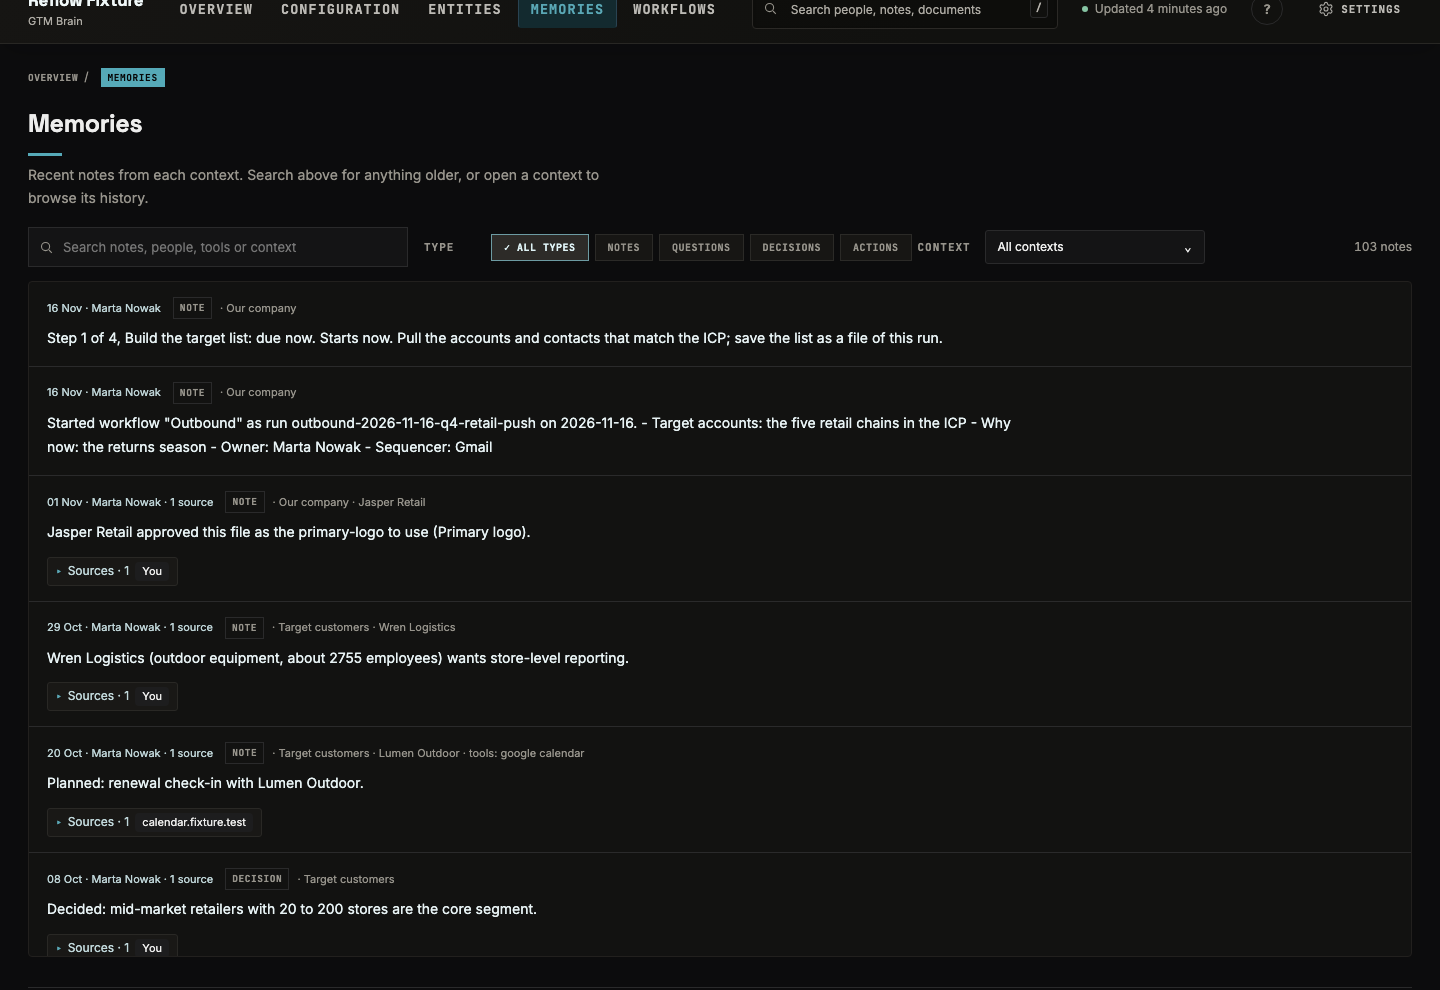
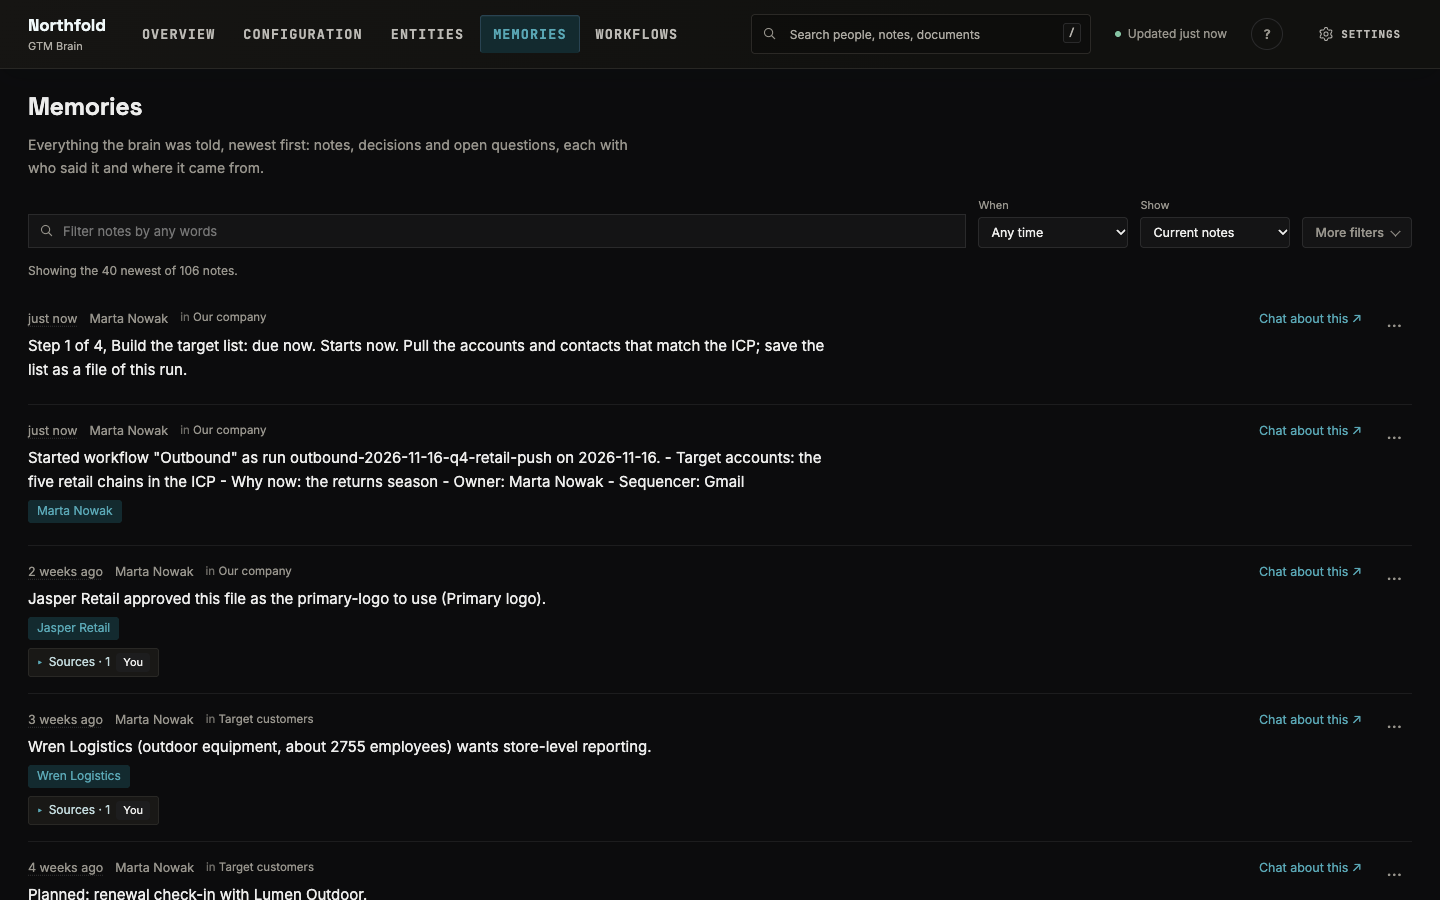
GTM Brain 0.37.1: a simpler Memories toolbar; every screenshot retaken (#62)

diff --git a/plugins/gtm-brain/scripts/gtm-brain-render/home.template.html b/plugins/gtm-brain/scripts/gtm-brain-render/home.template.html
@@ -344,7 +344,7 @@ time.pl-when{white-space:nowrap;cursor:help;text-decoration:underline dotted var
 .mem-form textarea{font:inherit;font-size:14.5px;line-height:1.55;color:var(--ink);background:var(--surface);border:1px solid var(--rule);border-radius:4px;padding:9px 11px;width:100%;box-sizing:border-box;resize:vertical;min-height:96px}.mem-form textarea:focus-visible{outline:2px solid var(--accent);outline-offset:1px;border-color:var(--accent)}.mem-cands{display:flex;flex-wrap:wrap;gap:6px 8px;align-items:center;margin:0 0 12px}.mem-cands .filter-pill:disabled{opacity:.55;cursor:default}
 .mem-history{margin:4px 0 10px;padding:0 0 0 18px;font-size:13.5px;color:var(--muted);max-width:75ch}.mem-history li{margin:4px 0}.mem-hist,.mem-same .linkbtn{font-size:12.5px}.mem-flash{margin:0 0 12px}
 @media(max-width:900px){.mem-menu{right:auto;left:0}}
-.mem-filters{align-items:flex-start}.mem-filters .explore-search input{padding-left:34px;max-width:none}.mem-selects{display:flex;flex-wrap:wrap;gap:8px 14px;flex-basis:100%}.mem-card{padding:16px 0}.mem-card .pl-text{font-size:15px;line-height:1.6;margin:6px 0 6px;max-width:86ch}.mem-card.focus{box-shadow:inset 3px 0 0 var(--accent);padding-left:14px;background:var(--surface)}.mem-topic{color:var(--muted);font-size:11.5px}.mem-topic:before{content:"in ";opacity:.7}.mem-people{display:flex;flex-wrap:wrap;gap:6px;margin:6px 0}.mem-people .tag{border:0;font:inherit;font-size:12px;cursor:pointer;background:var(--accent-soft);color:var(--accent)}.mem-people .tag:hover{box-shadow:inset 0 0 0 1px var(--accent)}.mem-older{display:block;margin:18px auto 4px;padding:9px 18px}.mem-docs{margin-top:26px;padding-top:14px;border-top:1px solid var(--rule)}
+.mem-filters{display:block}.mem-filters .explore-search input{padding-left:34px;max-width:none}.mem-top{display:flex;flex-wrap:wrap;align-items:flex-end;gap:10px 12px}.mem-top .explore-search{flex:1 1 320px}.mem-filters label{flex-direction:column;align-items:stretch;gap:3px;font-size:11px}.mem-filters select,.mem-filters label input{font-size:12.5px;border-radius:4px;min-width:150px}.mem-filters select:focus-visible,.mem-filters label input:focus-visible,.mem-morebtn:focus-visible,.mem-clear:focus-visible{outline:2px solid var(--accent);outline-offset:1px}.mem-morebtn{font:500 12.5px var(--body);color:var(--muted);background:var(--surface);border:1px solid var(--rule);border-radius:4px;padding:7px 12px;cursor:pointer;white-space:nowrap}.mem-morebtn:after{content:"";display:inline-block;width:6px;height:6px;margin:0 0 2px 8px;border-right:1.5px solid currentColor;border-bottom:1.5px solid currentColor;transform:rotate(45deg)}.mem-morebtn[aria-expanded="true"]:after{transform:rotate(-135deg);margin-bottom:-2px}.mem-morebtn:hover{color:var(--ink);border-color:var(--muted)}.mem-morebtn.on{color:var(--accent);border-color:var(--accent);background:var(--accent-soft)}.mem-clear{padding:7px 2px;font-size:12.5px}.mem-clear[hidden],.mem-fold[hidden]{display:none}.mem-fold{display:flex;flex-direction:column;gap:12px;margin-top:12px;padding:12px 14px;border:1px solid var(--rule);border-radius:4px;background:var(--surface)}.mem-fold select,.mem-fold label input{background:var(--paper)}.mem-selects{display:flex;flex-wrap:wrap;gap:10px 14px}.mem-card{padding:16px 0}.mem-card .pl-text{font-size:15px;line-height:1.6;margin:6px 0 6px;max-width:86ch}.mem-card.focus{box-shadow:inset 3px 0 0 var(--accent);padding-left:14px;background:var(--surface)}.mem-topic{color:var(--muted);font-size:11.5px}.mem-topic:before{content:"in ";opacity:.7}.mem-people{display:flex;flex-wrap:wrap;gap:6px;margin:6px 0}.mem-people .tag{border:0;font:inherit;font-size:12px;cursor:pointer;background:var(--accent-soft);color:var(--accent)}.mem-people .tag:hover{box-shadow:inset 0 0 0 1px var(--accent)}.mem-older{display:block;margin:18px auto 4px;padding:9px 18px}.mem-docs{margin-top:26px;padding-top:14px;border-top:1px solid var(--rule)}
 .wf-card{padding:16px 0}.wf-card h3 .linkbtn{font-size:16px}.wf-about{margin:2px 0 8px;font-size:14px;max-width:80ch}.wf-wait{margin:8px 0 0;padding:8px 12px;border-left:3px solid var(--amber);background:var(--amber-soft);border-radius:3px;font-size:13px}.wf-detail{margin-top:14px;padding:14px 16px;background:var(--paper);border:1px solid var(--rule);border-radius:4px}.wf-detail h4{font-family:var(--label);font-size:10.5px;letter-spacing:.06em;text-transform:uppercase;color:var(--muted);margin:0 0 8px;font-weight:600}.wf-detail h4:not(:first-child){margin-top:16px}
 .wf-steps{list-style:none;counter-reset:step;margin:0;padding:0}.wf-steps li{counter-increment:step;position:relative;padding:5px 0 12px 38px;font-size:13.5px}.wf-steps li:before{content:counter(step);position:absolute;left:0;top:2px;width:24px;height:24px;border-radius:50%;border:1px solid var(--rule);display:grid;place-items:center;font-family:var(--mono);font-size:11px;color:var(--muted);background:var(--surface)}.wf-steps li:not(:last-child):after{content:"";position:absolute;left:12px;top:28px;bottom:0;width:1px;background:var(--rule)}.wf-steps li.here:before{border-color:var(--green);color:var(--green);background:var(--green-soft)}.wf-steps li.here>span:first-child{font-weight:600}
 .cfg-tabs{display:flex;gap:4px;flex-wrap:wrap;margin:0 0 18px;border-bottom:1px solid var(--rule)}.cfg-tabs button{display:inline-flex;align-items:center;gap:8px;border:0;border-bottom:2px solid transparent;background:none;color:var(--muted);font:500 14px var(--body);padding:10px 14px;margin-bottom:-1px;cursor:pointer}.cfg-tabs button:hover{color:var(--ink)}.cfg-tabs button.on{color:var(--ink);border-bottom-color:var(--accent);font-weight:650}.cfg-flag{font-size:11px;font-weight:600;color:var(--amber);background:var(--amber-soft);border-radius:3px;padding:1px 7px}
@@ -1573,9 +1573,10 @@ function openEntity(id){show("entities");if(!exReady)renderEntitiesTab();entSele
 /* The picked entity is part of the address (#view=entities&e=<id>), so Back, Forward and a copied link work. */
 const entRouteState=routeState;routeState=()=>{const s=entRouteState();if(s.view==="entities"&&exSel)s.e=exSel;return s};
 const entRestoreRoute=restoreRoute;restoreRoute=()=>{entRestoreRoute();if(typeof URLSearchParams==="undefined"||view!=="entities"||!PL||!exReady)return;const id=new URLSearchParams(String(location.hash||"").slice(1)).get("e")||"";if(id!==exSel)entSelect(id,false)};
-/* Memories: one timeline, newest first. A filter box and a few plain filters; questions and decisions are filters of
-   the same list. The page carries the newest notes and fetches the whole list once a filter or "Show older" needs it. */
-const PM_PAGE=40;let pmFiltersDrawn=false,pmAll=null,pmLoading=null,pmError=false,pmLimit=PM_PAGE,pmFocus="";const pmF={q:"",kind:"",who:"",topic:"",project:"",tag:"",entity:"",period:"",state:"in force"};
+/* Memories: one timeline, newest first. A filter box, When and Show; every other filter (kind, who, person or
+   company, topic, project) sits behind "More filters", closed until asked for, with a count of the ones in use and
+   one Clear. Questions and decisions are filters of the same list. The page carries the newest notes and fetches the whole list once a filter or "Show older" needs it. */
+const PM_PAGE=40;let pmFiltersDrawn=false,pmMoreOpen=false,pmAll=null,pmLoading=null,pmError=false,pmLimit=PM_PAGE,pmFocus="";const pmF={q:"",kind:"",who:"",topic:"",project:"",tag:"",entity:"",period:"",state:"in force"};
 let pmFound={q:"",ids:null,loading:false},pmFindTimer=null;
 /* The filter box asks the server's search for every note that matches (the whole text, with its stemming), and the
    page adds what its own scorer matches in the list it holds. */
@@ -1616,20 +1617,28 @@ function renderNotesTab(){
   const opt=(v,label,sel)=>`<option value="${esc(v)}"${sel===v?" selected":""}>${esc(label)}</option>`;
   const authors=[...new Set(source.flatMap(n=>n.authors||[]))].sort(),topics=D.contexts.filter(c=>source.some(n=>n.context===c.slug)),projects=D.projects||[];
   const kinds=[["","Everything"],["note","Notes"],["decision","Decisions"],["question","Questions"],...M.kinds.filter(k=>!["note","decision","question"].includes(k)).map(k=>[k,pmKindWord(k)+"s"])];
-  $("#pm-filters").innerHTML=searchField("pm-q","Filter notes","Filter notes by any words",pmF.q)+
+  const sel=(id,label,options,v)=>`<label>${esc(label)} <select id="${id}">${options.map(([o,l])=>opt(o,l,v)).join("")}</select></label>`;
+  $("#pm-filters").innerHTML=`<div class="mem-top">`+searchField("pm-q","Filter notes","Filter notes by any words",pmF.q)+
+   sel("pm-period","When",[["","Any time"],["7","This week"],["30","This month"],["90","Last 3 months"],["365","This year"]],pmF.period)+
+   sel("pm-state","Show",[["in force","Current notes"],["replaced","Replaced notes"],["withdrawn","Withdrawn notes"],...(source.some(n=>n.sameAs&&n.state==="in force")||pmF.state==="copies"?[["copies","Copies of earlier notes"]]:[]),["","All of them"]],pmF.state)+
+   `<button type="button" class="mem-morebtn" id="pm-more-btn" aria-expanded="${pmMoreOpen}" aria-controls="pm-more-panel">${esc("More filters")}</button><button type="button" class="linkbtn mem-clear" id="pm-clear" aria-label="${esc("Clear all filters")}" hidden>${esc("Clear")}</button></div>`+
+   `<div class="mem-fold" id="pm-more-panel" role="group" aria-label="${esc("More filters")}"${pmMoreOpen?"":" hidden"}>`+
    `<div class="explore-filters" role="group" aria-label="${esc("Kind of note")}">${kinds.map(([k,label])=>`<button type="button" class="filter-pill${pmF.kind===k?" selected":""}" data-pm-kind="${esc(k)}" aria-pressed="${pmF.kind===k}">${esc(label)}</button>`).join("")}</div>`+
    `<div class="mem-selects"><label>${esc("Who")} <select id="pm-who">${opt("","Anyone",pmF.who)}${authors.map(a=>opt(a,authorName(a),pmF.who)).join("")}</select></label>`+
-   `<label>${esc("When")} <select id="pm-period">${[["","Any time"],["7","This week"],["30","This month"],["90","Last 3 months"],["365","This year"]].map(([v,l])=>opt(v,l,pmF.period)).join("")}</select></label>`+
    `<label>${esc("Person or company")} <input id="pm-entity" type="search" list="pm-entity-list" autocomplete="off" placeholder="${esc("Anyone")}" value="${esc(pmF.entity)}"><datalist id="pm-entity-list">${PL.entities.rows.slice(0,3000).map(e=>`<option value="${esc(e.name)}">`).join("")}</datalist></label>`+
-   (topics.length>1?`<label>${esc("Topic")} <select id="pm-topic">${opt("","Any topic",pmF.topic)}${topics.map(c=>opt(c.slug,contextTitle(c),pmF.topic)).join("")}</select></label>`:"")+
-   (projects.length?`<label>${esc("Project")} <select id="pm-project">${opt("","Any project",pmF.project)}${projects.map(p=>opt(p.slug,p.title,pmF.project)).join("")}</select></label>`:"")+
-   `<label>${esc("Show")} <select id="pm-state">${[["in force","Current notes"],["replaced","Replaced notes"],["withdrawn","Withdrawn notes"],...(source.some(n=>n.sameAs&&n.state==="in force")||pmF.state==="copies"?[["copies","Copies of earlier notes"]]:[]),["","All of them"]].map(([v,l])=>opt(v,l,pmF.state)).join("")}</select></label></div>`;
+   (topics.length>1?sel("pm-topic","Topic",[["","Any topic"],...topics.map(c=>[c.slug,contextTitle(c)])],pmF.topic):"")+
+   (projects.length?sel("pm-project","Project",[["","Any project"],...projects.map(p=>[p.slug,p.title])],pmF.project):"")+
+   `</div></div>`;
  }
+ /* The count on "More filters" is the folded filters in use; Clear shows as soon as anything narrows the list. */
+ const filtered=!!(pmF.q||pmF.kind||pmF.who||pmF.topic||pmF.project||pmF.tag||pmF.entity||pmF.period||pmF.state!=="in force"),folded=[pmF.kind,pmF.who,pmF.entity.trim(),pmF.topic,pmF.project,pmF.tag].filter(Boolean).length;
+ const moreBtn=$("#pm-more-btn"),clearBtn=$("#pm-clear");
+ if(moreBtn){moreBtn.textContent="More filters"+(folded?" ("+folded+")":"");moreBtn.setAttribute("aria-expanded",String(pmMoreOpen));moreBtn.classList?.toggle("on",folded>0)}
+ if(clearBtn)clearBtn.hidden=!filtered;
  const rows=pmFiltered(source),partial=!pmAll&&M.total>M.first.length;
  if(pmF.q.trim()){const tokens=fzWords(pmF.q).map(x=>x.w),score=new Map(rows.map(n=>[n.id,(fzMatch(tokens,[[n.text,1]])?.score||0)+(pmFound.ids?.has(n.id)?40:0)]));rows.sort((a,b)=>score.get(b.id)-score.get(a.id)||String(b.at).localeCompare(String(a.at)))}
  if(pmFocus){const at=rows.findIndex(n=>n.id===pmFocus);if(at>0)rows.unshift(rows.splice(at,1)[0])}
  if(partial&&rows.length<pmLimit&&LIVE&&!pmError)pmLoad();
- const filtered=!!(pmF.q||pmF.kind||pmF.who||pmF.topic||pmF.project||pmF.tag||pmF.entity||pmF.period||pmF.state!=="in force");
  $("#pm-list").innerHTML=(pmFlash?`<p class="ent-flash mem-flash" role="status">${esc(pmFlash.text)}</p>`:"")+rows.slice(0,pmLimit).map(pmRow).join("")+(rows.length>pmLimit?`<button class="btn quiet pl-more mem-older" data-pm-more>${esc("Show older")} (${rows.length-pmLimit} ${esc("more")})</button>`:partial&&LIVE&&!pmError&&!pmLoading&&rows.length?`<button class="btn quiet pl-more mem-older" data-pm-more>${esc("Show older")}</button>`:"")||`<p class="empty">${esc(pmLoading?"Loading notes…":filtered?"No note matches these filters. Remove one, or try other words.":"Nothing saved yet. Tell Codex something worth remembering, for example \"remember that Acme renews in March\".")}</p>`;
  const shown=Math.min(rows.length,pmLimit);
  $("#pm-status").textContent=pmF.q.trim()&&(pmFound.loading||pmLoading)?`Searching all ${M.total} notes…`:partial?(pmLoading?`Showing ${shown} of the ${M.first.length} newest notes. Loading all ${M.total}…`:pmError||!LIVE?`Showing ${shown} of the ${M.first.length} newest notes. ${LIVE?"The full list could not be loaded; refresh the dashboard to retry.":"Open the live dashboard to filter all "+M.total+" notes."}`:`Showing the ${shown} newest of ${M.total} notes.`):`Showing ${shown} of ${rows.length} ${rows.length===1?"note":"notes"}${rows.length!==M.total?" ("+M.total+" in all)":""}.`;
@@ -1638,9 +1647,13 @@ function renderNotesTab(){
 }
 /* Every name on the page opens the Entities pane (#view=entities&e=<id>). */
 function openEntityById(id){if(typeof openEntity==="function"&&PL?.entities?.rows?.some(e=>e.id===id)){openEntity(id);return true}return false}
+/* Clear: back to the list as it opens (current notes, any time, no words). "More filters" stays as it was. */
+function pmClear(){Object.assign(pmF,{q:"",kind:"",who:"",topic:"",project:"",tag:"",entity:"",period:"",state:"in force"});pmFocus="";pmLimit=PM_PAGE;pmFiltersDrawn=false;pmFind();renderNotesTab();$("#pm-q")?.focus?.()}
 function openNote(id){pmFocus=id;Object.assign(pmF,{q:"",kind:"",who:"",topic:"",project:"",tag:"",entity:"",period:"",state:""});pmLimit=PM_PAGE;pmFiltersDrawn=false;show("notes");renderNotesTab();if(!pmAll&&!(PL?.memories?.first||[]).some(n=>n.id===id))pmLoad()}
 document.addEventListener("click",e=>{const t=e.target;if(!t?.closest)return;
- const k=t.closest("[data-pm-kind]");if(k){pmF.kind=k.dataset.pmKind;pmLimit=PM_PAGE;pmFiltersDrawn=false;renderNotesTab();return}
+ const k=t.closest("[data-pm-kind]");if(k){const kind=k.dataset.pmKind;pmF.kind=kind;pmLimit=PM_PAGE;pmFiltersDrawn=false;renderNotesTab();[...document.querySelectorAll("#pm-filters [data-pm-kind]")].find(b=>b.dataset.pmKind===kind)?.focus();return}
+ if(t.closest("#pm-more-btn")){pmMoreOpen=!pmMoreOpen;const panel=$("#pm-more-panel");if(panel)panel.hidden=!pmMoreOpen;renderNotesTab();return}
+ if(t.closest("#pm-clear")){pmClear();return}
  const ent=t.closest("[data-entity-id]");if(ent){openEntityById(ent.dataset.entityId);return}});
 /* Workflows: each one a card in plain words (what it does, whether it is on, what starts it, how its last run went);
    a click shows its steps as a numbered path with the current step marked, and its runs. The file's own header stays in Details. */

diff --git a/frontend/dashboard/e2e/tests/tabs.e2e.ts b/frontend/dashboard/e2e/tests/tabs.e2e.ts
@@ -236,14 +236,58 @@ test('Memories is one timeline, newest first; a replaced note shows as replaced;
   await expect(old).toContainText('replaced');
   await expect(old).toContainText(f.correction.new);
   await screen.getByLabel('Show').selectOption('Current notes');
-  // the person filter keeps only the notes about that person
+  // the person filter sits behind More filters and keeps only the notes about that person
   const status = browser.locator('#pm-status');
   const before = await status.textContent();
+  await screen.getByRole('button', 'More filters').tap();
   await screen.getByLabel('Person or company').fill(f.person.name);
   await expect(status).toContainText(`Showing ${f.person.notes.length} of ${f.person.notes.length} notes`);
   await expect(browser.locator('#pm-list article.pl-note .pl-text')).toHaveText(f.person.notes);
   await screen.getByLabel('Person or company').fill('');
   await expect(status).toHaveText(before ?? '');
+});
+
+test('Memories keeps the extra filters behind More filters: closed at first, a count when one is in use, one Clear', async ({ app, screen, browser }) => {
+  const f = fixture(app.baseUrl);
+  await app.open('/');
+  await screen.getByRole('navigation', 'Main navigation').getByRole('button', 'Memories').tap();
+  await expect(browser.locator('#pm-list article.pl-note').first()).toBeVisible();
+  // what is always there: the filter box, When and Show
+  await expect(screen.getByLabel('Filter notes')).toBeVisible();
+  await expect(screen.getByLabel('When')).toBeVisible();
+  await expect(screen.getByLabel('Show')).toBeVisible();
+  const more = browser.locator('#pm-more-btn');
+  const clear = screen.getByRole('button', 'Clear all filters');
+  await expect(more).toHaveText('More filters');
+  await expect(more).toHaveAttribute('aria-expanded', 'false');
+  await expect(screen.getByLabel('Person or company')).toBeHidden();
+  await expect(screen.getByRole('button', 'Decisions')).toBeHidden();
+  await expect(clear).toBeHidden();
+  const status = browser.locator('#pm-status');
+  const rows = browser.locator('#pm-list article.pl-note');
+  const before = await rows.count();
+  // open it, pick a person: the count says one filter is in use
+  await more.tap();
+  await expect(more).toHaveAttribute('aria-expanded', 'true');
+  await screen.getByLabel('Person or company').fill(f.person.name);
+  await expect(more).toHaveText('More filters (1)');
+  await expect(status).toContainText(`Showing ${f.person.notes.length} of ${f.person.notes.length} notes`);
+  await screen.getByRole('button', 'Decisions').tap();
+  await expect(more).toHaveText('More filters (2)');
+  await expect(screen.getByRole('button', 'Decisions')).toHaveAttribute('aria-pressed', 'true');
+  // closed again, the count still tells that filters are in use
+  await more.tap();
+  await expect(screen.getByLabel('Person or company')).toBeHidden();
+  await expect(more).toHaveText('More filters (2)');
+  // one click puts the whole list back
+  await clear.tap();
+  await expect(more).toHaveText('More filters');
+  await expect(clear).toBeHidden();
+  await expect(rows).toHaveCount(before);
+  await expect(status).not.toContainText(`Showing ${f.person.notes.length} of`);
+  await more.tap();
+  await expect(screen.getByLabel('Person or company')).toHaveValue('');
+  await expect(screen.getByRole('button', 'Everything')).toHaveAttribute('aria-pressed', 'true');
 });
 
 test('Workflows shows each one as a card in plain words; a click shows its steps and its runs', async ({ app, screen, browser }) => {

diff --git a/README.md b/README.md
@@ -202,6 +202,8 @@ Four things, read at the start of every chat.
 - **What a rule cannot do:** start work ("whenever X, do Y" is offered as a workflow), switch
   off APPROVE or the protected files, or move files that already exist.
 
+![The Rules part of the Configuration tab: each rule as a row to open, with a filter box and the two groups, where things go and where Codex looks first](docs/images/screenshots/dashboard-rules.png)
+
 #### Schema
 
 `configuration/schema.md`: what the brain keeps about each kind.
@@ -222,6 +224,8 @@ Four things, read at the start of every chat.
   "Anna joined Acme" also ends her job at Northwind. An unlisted type is saved as a plain note
   with an offer to add it.
 
+![The Schema part of the Configuration tab: one kind at a time, its fields with the required ones marked, and its relationships](docs/images/screenshots/dashboard-schema.png)
+
 #### Documents
 
 Base documents and your other documents. Detail: [DOCUMENTS.md](docs/DOCUMENTS.md).
@@ -239,6 +243,8 @@ Base documents and your other documents. Detail: [DOCUMENTS.md](docs/DOCUMENTS.m
   design system is also a page, `design-system.html`: one self-contained file shown on the
   dashboard's Visual tab and kept in step with `design-system.md`.
 
+![A document opened from the Configuration tab: the rendered text, its state, what work Codex reads it before, and the Edit button](docs/images/screenshots/dashboard-document.png)
+
 #### Settings
 
 `configuration/settings.yaml`. Beside company, team and tools it holds:
@@ -246,7 +252,7 @@ dashboard timing (`dashboard: always` or `on-demand`), the save reminder (`save_
 workflows on or off (`workflows: off`) and where big files go (`big_files: google-drive` or
 `local`). A change is shown first and applies only when you click APPROVE.
 
-![The Configuration tab: the company, the base documents with their state, and the rules and schema beside them](docs/images/screenshots/dashboard-configuration.png)
+![The Configuration tab: the company and the base documents with their state, with Rules and Schema as parts of the same tab](docs/images/screenshots/dashboard-configuration.png)
 
 ### Entities
 
@@ -309,7 +315,7 @@ Detail: [Contexts](plugins/gtm-brain/MANUAL.md#contexts) ·
 [Summaries](plugins/gtm-brain/MANUAL.md#summaries) ·
 [Chat capture](plugins/gtm-brain/MANUAL.md#chat-capture).
 
-![The Memories tab: notes on a timeline with their kind, topic and sources, filtered by type or searched](docs/images/screenshots/dashboard-memories.png)
+![The Memories tab: notes on a timeline with their topic and sources, a filter box with When and Show, and the other filters behind More filters](docs/images/screenshots/dashboard-memories.png)
 
 ### Workflows
 

diff --git a/docs/SETUP.md b/docs/SETUP.md
@@ -28,7 +28,7 @@ needed only if you later choose to share your own private company brain through 
 codex plugin marketplace add gtm-week/gtm-brain   # straight from GitHub (verified)
 codex plugin marketplace upgrade gtm-brain        # refresh an existing marketplace snapshot
 codex plugin add gtm-brain@gtm-brain
-codex plugin list | grep gtm-brain                                      # installed, enabled, 0.37.0
+codex plugin list | grep gtm-brain                                      # installed, enabled, 0.37.1
 ```
 
 The install is a snapshot of the configured branch. In the Codex app, say **"update GTM Brain"**
@@ -83,7 +83,7 @@ new chat in Codex on the test folder (restart the app only if old skills linger)
 Set this once in your shell; the scripts below use it:
 
 ```bash
-export PLUGIN_ROOT=~/.codex/plugins/cache/gtm-brain/gtm-brain/0.37.0
+export PLUGIN_ROOT=~/.codex/plugins/cache/gtm-brain/gtm-brain/0.37.1
 ```
 
 In a chat the skills run as GTM Brain tools: you see "Remembering", "Searching the brain",

diff --git a/docs/COMMANDS.md b/docs/COMMANDS.md
@@ -47,7 +47,7 @@ They are not additional discoverable skills. Tools show outcomes such as "Rememb
 "Searching the brain" in chat. Review proposals on the dashboard (it changes nothing but a document you edit and save there). APPROVE is a choice in the form `approve_change` shows; in a chat nothing else applies it.
 A question to you comes the same way: `ask_person` shows a form with the choices to click (or a field to type in) and hands your answer back to Codex. It records nothing and applies nothing. Where the host shows no form, Codex asks in its own question box, or in chat text with numbered options.
 Scripts retain their paths for terminal use with
-`export PLUGIN_ROOT=~/.codex/plugins/cache/gtm-brain/gtm-brain/0.37.0`.
+`export PLUGIN_ROOT=~/.codex/plugins/cache/gtm-brain/gtm-brain/0.37.1`.
 
 Legend for "writes": what files the command changes. Nothing else is ever touched. The paths are
 those of a brain in the four folders (file layout 4, what setup makes since 0.37); a brain not

diff --git a/docs/GUIDE.md b/docs/GUIDE.md
@@ -141,7 +141,7 @@ before it is saved, and kept as a short description, never as your messages. The
 
 Two stories show the brain end to end: an outreach lifecycle and a content loop. Build the demo
 brain with `node plugins/gtm-brain/test/live/demo-loops.mjs --brain-only` (a contributor
-checkout). It holds Reflow Fixture: a filled ICP, strategy and tone of voice, Zynt signals, customer
+checkout). It holds Northfold: a filled ICP, strategy and tone of voice, Zynt signals, customer
 words from two calls, and the project folders Outbound and Website. Open it as a Codex project.
 Nothing is sent or published. You tell Codex what Clay, Surfer, Gmail and Vercel returned. The same
 script without `--brain-only` types these sentences into Codex and checks every step. The summaries
